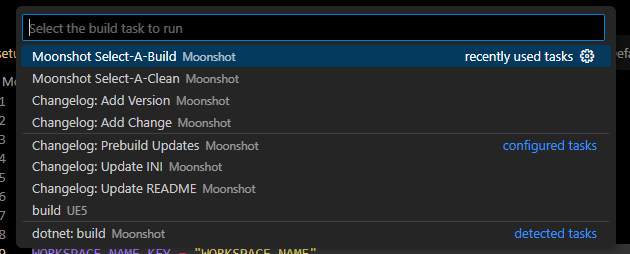
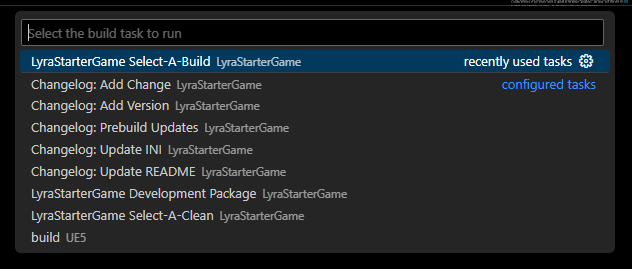
README

Changed region(s): [[0.0, 0.0, 1.0, 1.0]]

diff --git a/setup.py b/setup.py
@@ -2,7 +2,7 @@ from setuptools import setup, find_packages
 
 setup(
     name='unreal-project-manager',
-    version='0.1.0',
+    version='0.1.2',
     packages=find_packages(where='.'),
     include_package_data=True,
     install_requires=[
@@ -18,7 +18,7 @@ setup(
     },
     author='Brandt Frazier',
     author_email='brandt@frazimuth.me',
-    description='A tool for managing Unreal Engine projects',
+    description='A lightweight Python module for managing Unreal projects across space, time, and platforms.',
     long_description=open('README.md').read(),
     long_description_content_type='text/markdown',
     url='https://github.com/crashtestbrandt/unrealprojectmanager',
@@ -27,5 +27,5 @@ setup(
         'License :: OSI Approved :: MIT License',
         'Operating System :: OS Independent'
     ],
-    python_requires='>=3.6'
+    python_requires='>=3.10'
 )

diff --git a/upm/__main__.py b/upm/__main__.py
@@ -66,11 +66,11 @@ def main():
 
     parser_setup = subparsers.add_parser('build', help='Build commands.')
     parser_setup.add_argument('--project-dir', type=str, required=True,
-                        help="Path to the Moonshot project directory")
+                        help="Path to the project directory")
     parser_setup.add_argument('--build-type', type=str, required=True,
                         help="Type of build (debug, development, testomg. release)")
     parser_setup.add_argument('--target-name', type=str, required=True,
-                        help="Type of build (debug, development, testomg. release)")
+                        help="Name of target to build")
     parser_setup.add_argument('--clean', action='store_true',
                         help="Clean selected targets")
     parser_setup.add_argument('--build', action='store_true',

diff --git a/upm/setup.py b/upm/setup.py
@@ -491,15 +491,20 @@ def setup(args):
         sys.exit(0)
 
     venv_path = os.path.join(os.getcwd(), '.venv')
-    if os.path.exists(venv_path):
-        raise Exception(f"Virtual environment already exists at {venv_path}. Run with --clean to remove it.")
     
     requirements_file = os.path.join(os.getcwd(), 'upm', 'requirements.txt')
 
-    if not args.novenv:
+    if not args.novenv and not os.path.exists(venv_path):
+        print(f"No virtual environment found at {venv_path}.")
         create_virtualenv(venv_path)
+    else:
+        print(f"Skipping virtual environment creation.")
+    
+    if args.novenv:
+        print(f"Skipping dependency installation.")
+    else:
         install_dependencies(venv_path, requirements_file)
-
+        
     if not args.noprojfiles:
         generate_project_files(env_vars);
 

diff --git a/README.md b/README.md
@@ -20,11 +20,13 @@ A lightweight Python module for managing Unreal projects across space, time, and
 
 - [Quickstart](#quickstart)
 
-- [Configuration](#configuration)
+- [UPM Config](#upm-config)
 
-- [Setup](#setup)
+- [UPM Setup](#upm-setup)
 
 - [Usage](#usage)
+
+- [Collaboration Guide](#collaboration-guide)
 
 - [Also Maybe Helpful](#also-maybe-helpful)
 
@@ -44,39 +46,52 @@ A lightweight Python module for managing Unreal projects across space, time, and
 
 1. Download and install [prerequisites](#prerequisites).
 
-1. Clone UPM:
+1. Install UPM:
 
-    **TODO**: This will be replaced with `pip install`.
+    `python3 -m pip install unreal-project-manager`
 
-    `git clone https://github.com/crashtestbrandt/UnrealProjectManager.git`
+1. Use UPM to configure your project:
 
-1. Navigate to cloned UPM directory and use UPM to configure your project:
+    `python3 -m upm config --dir [project-path] --project-name [project-name]`
 
-    `upm config --dir [project-path] --project-name [project-name]`
+1. Use UPM to install build tools.
+
+    - For Windows, install Visual Studio Community with `python3 -m upm install-vs`. This will prompt for privilege escalation.
+
+    - For MacOS, install XCode with `python3 -m upm install-xcode` (STILL TESTING)
+
+    Additionally, if you don't have VS Code installed, you can do:
+
+    `python3 -m upm install-vscode`
 
 1. Navigate to your project directory and use UPM to perform project setup and generate project files:
 
-    `upm setup`
+    `python3 -m upm setup`
 
-1. 
+1. With your new *.code-workspace* file open in VS Code, use *Ctrl+Shift+B* to open the build menu and build your project.
+
+    To fully cook, build, and package a development version of your project, choose the *Development Package* option. This is required before launching the *Development* configuration for your game from the Run and Debug menu (*Ctrl+Shift+D*), as building and launching a *Development* target directly will result in shaders not being compiled.
+
+    To work on your project in the editor, first select the *Select-A-Build* option from the build menu, selecting the *Development* and *Editor* options when prompted.
+
+1. Once your chosen target is built, navigate to the Run and Debug menu (*Ctrl+Shift+D*), select the target to launch from the dropdown menu, and click *Start Debugging* (green arrow). If this is your first time launching the Editor for your project, be prepared for it to hang a while as it compiles shaders.
 
 
-## Configuration
+## UPM Config
+
+Adds scripts and configuration files to your project you'll probably want to keep under source control for use by collaborators. 
 
 ### Generate Configuration Files
 
-**NOTE**: Here we're using Epic's [Lyra Starter Game](https://www.unrealengine.com/marketplace/en-US/product/lyra?sessionInvalidated=true) sample as an example project, and assuming you've [created it](#starting-an-unreal-project) in the same directory where you cloned *UnrealProjectManager*.
+**NOTE**: Here we're using Epic's [Lyra Starter Game](https://www.unrealengine.com/marketplace/en-US/product/lyra?sessionInvalidated=true) sample as an example project.
 
-1. Clone UPM and navigate to it:
+1. Install UPM:
 
-    **TODO**: This will be replaced with installation instructions using `pip`. 
-    
     ```
-    git clone https://github.com/crashtestbrandt/UnrealProjectManager.git
-    cd UnrealProjectManager
+    python3 -m pip install unreal-project-manager
     ```
 
-1. Copy configuration files into your project directory:
+1. Use UPM to copy configuration files into your project directory:
 
     ```
     python3 -m upm config --gitignore --dir ../LyraStarterGame
@@ -100,21 +115,56 @@ To remove items created by `upm config`, do `upm config --clean --dir your-proje
 
 Do `upm config -h` to see options for modifying the default behavior of `upm config`, e.g. changing the default location of Unreal Engine or specifying a project name different from the project directory.
 
-## Setup
+## UPM Setup
 
+Generates files required for project automation, including Python dependencies (installed to *.venv* by default), environment variables (*.env* by default), VS Code workspace configuration files, build/launch tasks, and Unreal project files. These are all excluded via the default *.gitignore* file added by `upm config`.
 
+To set up your project with UPM:
 
-### Existing Unreal Project
+1. Ensure you've configured it using `upm config` as discussed in previous sections.
 
-*TODO*
+1. Ensure build tools are installed for your platform, e.g. by doing `python3 -m upm install-vs`.
 
-### New Unreal Project
+1. Navigate to your project directory and do:
 
-*TODO*
+    ```
+    python3 -m upm setup
+    ```
+
+The files and directories generated by `upm setup` are not intended to be placed under source control. When [sharing your project for collaboration](#collaboration-guide), you should include instructions for generating them with UPM.
+
+You can remove UPM files generated by `upm setup` with `upm setup --clean`; this does not remove Unreal project files or the *.code-workspace* file.
 
 ## Usage
 
-*TODO*
+UPM adds several platform-specific tasks to `.vscode/launch.json` and `.vscode/tasks.json`, which are wrappers for the various `upm build` commands:
+
+![Build Task List](https://raw.githubusercontent.com/crashtestbrandt/UnrealProjectManager/main/images/build-task-list.png)
+
+![Launch Target List](https://raw.githubusercontent.com/crashtestbrandt/UnrealProjectManager/main/images/launch-target-list.png)
+
+```
+usage: upm build [-h] --project-dir PROJECT_DIR --build-type BUILD_TYPE --target-name TARGET_NAME [--clean] [--build] [--package]
+
+options:
+  -h, --help            show this help message and exit
+  --project-dir PROJECT_DIR
+                        Path to the project directory
+  --build-type BUILD_TYPE
+                        Type of build (debug, development, testing. release)
+  --target-name TARGET_NAME
+                        Name of target to build.
+  --clean               Clean selected targets
+  --build               Build selected targets
+  --package             Package selected target for deployment
+```
+
+You can access the launch configurations from the Run and Debug menu (*Ctrl+Shift+D*) and the build tasks from the Build menu (*Ctrl+Shift+B*). You must build a target before launching it, i.e. use *Select-A-Build* from the Build menu before launching from the Run and Debug menu.
+
+
+
+
+## Collaboration Guide
 
 ## Also Maybe Helpful
 
